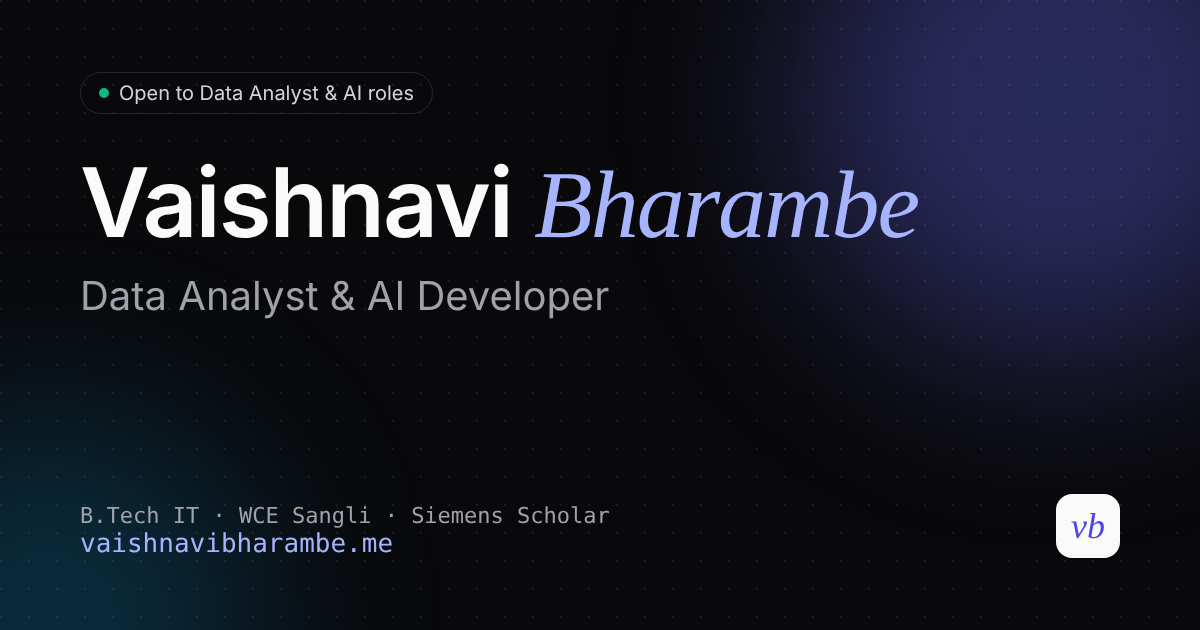
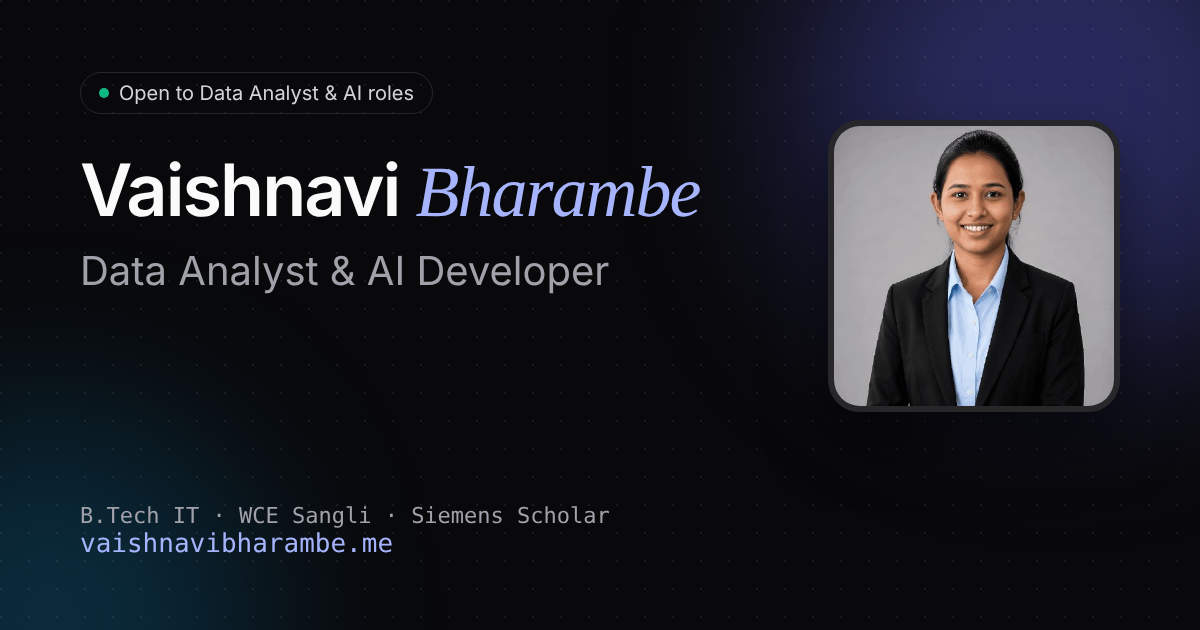
Fix mobile overflow, add photo, update Siemens internship, new chat launcher
- Contact grid no longer stretches the page on phones; global overflow guard
- Profile photo in hero badge, About portrait, chatbot and share image
- Siemens internship: governance & risk, Zero Trust & vulnerability management, dashboards
- Chat launcher shows photo with sparkle badge and 'Ask about me' label

Claude-Session: https://claude.ai/code/session_01Vvamk7oeP9AgVw4tv4RP3Y

Changed region(s): [[0.0617, 0.181, 0.9558, 0.6635], [0.8633, 0.7841, 0.9558, 0.9048]]

diff --git a/src/components/ChatBot.jsx b/src/components/ChatBot.jsx
@@ -1,6 +1,6 @@
 import { useEffect, useRef, useState } from 'react'
 import { AnimatePresence, motion } from 'framer-motion'
-import { LuMessageCircle, LuX, LuSend, LuArrowUpRight, LuCopy, LuSparkles } from 'react-icons/lu'
+import { LuX, LuSend, LuArrowUpRight, LuCopy, LuSparkles } from 'react-icons/lu'
 import { getReply, starterChips } from '../data/chatbot'
 import { useToast } from './Toast'
 import { profile } from '../data/portfolio'
@@ -61,35 +61,37 @@ export default function ChatBot() {
     <>
       {/* launcher */}
       <div className="fixed bottom-6 right-6 z-[65] flex items-end gap-3">
-        <AnimatePresence>
-          {nudge && !open && (
-            <motion.button
-              onClick={() => setOpen(true)}
-              initial={{ opacity: 0, x: 12, scale: 0.9 }}
-              animate={{ opacity: 1, x: 0, scale: 1 }}
-              exit={{ opacity: 0, x: 12, scale: 0.9 }}
-              className="mb-2 hidden rounded-2xl rounded-br-md border border-zinc-200 bg-white px-4 py-2.5 text-sm font-medium shadow-xl sm:block dark:border-zinc-800 dark:bg-zinc-900"
-            >
-              Have a question about me? Ask here 👋
-            </motion.button>
-          )}
-        </AnimatePresence>
         <motion.button
           onClick={() => setOpen((o) => !o)}
-          aria-label={open ? 'Close chat' : 'Open chat assistant'}
+          aria-label={open ? 'Close chat' : 'Ask about Vaishnavi'}
           aria-expanded={open}
-          whileHover={{ scale: 1.06 }}
-          whileTap={{ scale: 0.92 }}
-          initial={{ scale: 0 }}
-          animate={{ scale: 1 }}
+          whileHover={{ scale: 1.04, y: -2 }}
+          whileTap={{ scale: 0.94 }}
+          initial={{ scale: 0, opacity: 0 }}
+          animate={{ scale: 1, opacity: 1 }}
           transition={{ delay: 2, type: 'spring', stiffness: 260, damping: 18 }}
-          className="relative grid h-14 w-14 place-items-center rounded-full bg-zinc-900 text-white shadow-2xl shadow-indigo-900/30 dark:bg-white dark:text-zinc-900"
+          className={`relative flex items-center gap-2.5 rounded-full bg-zinc-900 text-white shadow-2xl shadow-indigo-900/30 ring-4 ring-accent/20 dark:bg-white dark:text-zinc-900 ${open ? 'h-14 w-14 justify-center' : 'h-14 py-1.5 pl-1.5 pr-1.5 sm:pr-5'}`}
         >
-          {!open && <span className="absolute inset-0 animate-ping rounded-full bg-accent opacity-20" />}
           <AnimatePresence mode="wait" initial={false}>
-            <motion.span key={open ? 'x' : 'chat'} initial={{ rotate: -90, scale: 0 }} animate={{ rotate: 0, scale: 1 }} exit={{ rotate: 90, scale: 0 }} transition={{ duration: 0.2 }} className="text-2xl">
-              {open ? <LuX /> : <LuMessageCircle />}
-            </motion.span>
+            {open ? (
+              <motion.span key="x" initial={{ rotate: -90, scale: 0 }} animate={{ rotate: 0, scale: 1 }} exit={{ rotate: 90, scale: 0 }} transition={{ duration: 0.2 }} className="text-2xl">
+                <LuX />
+              </motion.span>
+            ) : (
+              <motion.span key="ask" initial={{ opacity: 0, scale: 0.8 }} animate={{ opacity: 1, scale: 1 }} exit={{ opacity: 0, scale: 0.8 }} transition={{ duration: 0.2 }} className="flex items-center gap-2.5">
+                <span className="relative">
+                  <img src={`${import.meta.env.BASE_URL}${profile.photoSmall}`} alt="" className="h-11 w-11 rounded-full object-cover ring-2 ring-white/20 dark:ring-zinc-900/10" />
+                  <motion.span
+                    animate={{ rotate: [0, 15, -10, 0], scale: [1, 1.15, 1] }}
+                    transition={{ duration: 2.4, repeat: Infinity, repeatDelay: 1.5 }}
+                    className="absolute -bottom-0.5 -right-0.5 grid h-5 w-5 place-items-center rounded-full bg-accent text-[11px] text-white ring-2 ring-zinc-900 dark:text-zinc-900 dark:ring-white"
+                  >
+                    <LuSparkles />
+                  </motion.span>
+                </span>
+                <span className="hidden text-sm font-medium sm:block">Ask about me</span>
+              </motion.span>
+            )}
           </AnimatePresence>
         </motion.button>
       </div>
@@ -110,9 +112,7 @@ export default function ChatBot() {
             {/* header */}
             <div className="flex items-center gap-3 border-b border-zinc-100 bg-gradient-to-br from-indigo-500/10 to-sky-500/5 px-5 py-4 dark:border-zinc-800">
               <div className="relative">
-                <span className="grid h-10 w-10 place-items-center rounded-full bg-zinc-900 font-serif text-lg italic text-indigo-200 dark:bg-white dark:text-indigo-600">
-                  {profile.initials.toLowerCase()}
-                </span>
+                <img src={`${import.meta.env.BASE_URL}${profile.photoSmall}`} alt="Vaishnavi Bharambe" className="h-10 w-10 rounded-full object-cover" />
                 <span className="absolute bottom-0 right-0 h-3 w-3 rounded-full border-2 border-white bg-emerald-500 dark:border-zinc-950" />
               </div>
               <div className="min-w-0 flex-1">

diff --git a/src/data/portfolio.js b/src/data/portfolio.js
@@ -15,13 +15,15 @@ export const profile = {
   email: 'vaishnavibharambe99@gmail.com',
   github: 'https://github.com/Bharambevaish',
   linkedin: 'https://www.linkedin.com/in/vaishnavi-bharambe-646783293/',
+  photo: 'vaishnavi-bharambe.jpg', // in public/
+  photoSmall: 'vaishnavi-bharambe-sm.jpg',
   resume: '', // TODO: paste a public link to your resume PDF to show a "Resume" button
 }
 
 export const about = {
   paragraphs: [
     "I'm a B.Tech Information Technology student at Walchand College of Engineering, Sangli, and a Siemens Scholar (Batch 11). I like questions that a dataset can answer: who your most valuable customers are, which ones are about to become valuable, and what to do about each group.",
-    'This summer I interned with the cybersecurity team at Siemens, where I built reports and automated workflows with Excel, Power BI, SharePoint and Power Automate. Outside class I build end-to-end projects in Python, and I am now moving into AI with retrieval-augmented generation (RAG) and transformer models.',
+    'This summer I interned with the cybersecurity team at Siemens, working across governance and risk, Zero Trust and vulnerability management, and building compliance dashboards and automated workflows with Power BI, Excel, Power Automate and SharePoint. Outside class I build end-to-end projects in Python, and I am now moving into AI with retrieval-augmented generation (RAG) and transformer models.',
   ],
   highlights: [
     { value: 8.5, decimals: 1, suffix: '', label: 'CGPA at WCE Sangli' },
@@ -187,13 +189,13 @@ export const experience = [
     org: 'Siemens',
     period: 'Jun 2026 – Jul 2026',
     type: 'Internship',
-    icon: 'siemens',
+    icon: 'briefcase',
     points: [
-      'Built data analysis and reports for the team with Excel pivot tables and Power BI dashboards.',
-      'Automated routine workflows with Power Automate and organised team content in SharePoint.',
-      'Learned the foundations of security practice, including Zero Trust and CVSS-based vulnerability management.',
+      'Governance & risk: worked on the Asset Classification and Protection (ACP) process and evaluated vendor risk using C-SCRM (cyber supply chain risk management) guidelines.',
+      'Architecture & vulnerability management: analysed Zero Trust Architecture (identity, micro-segmentation, device trust) and the vulnerability management lifecycle, aligned with ISO 27001 and IEC 62443 standards.',
+      'Automation & dashboarding: built compliance-tracking dashboards and automated workflows with Microsoft Excel, Power BI, Power Automate and SharePoint.',
     ],
-    tools: ['Power BI', 'Excel', 'Power Automate', 'SharePoint'],
+    tools: ['Zero Trust', 'ISO 27001', 'IEC 62443', 'C-SCRM', 'Power BI', 'Excel', 'Power Automate', 'SharePoint'],
   },
   {
     role: 'Siemens Scholar, Batch 11',

diff --git a/src/components/About.jsx b/src/components/About.jsx
@@ -2,7 +2,8 @@ import SectionHeading from './SectionHeading'
 import Reveal from './Reveal'
 import Counter from './Counter'
 import TiltCard from './TiltCard'
-import { about } from '../data/portfolio'
+import { motion } from 'framer-motion'
+import { about, profile } from '../data/portfolio'
 
 export default function About() {
   return (
@@ -10,7 +11,24 @@ export default function About() {
       <div className="mx-auto max-w-6xl">
         <SectionHeading icon="about" eyebrow="About" title="A little about me" />
         <div className="grid gap-12 md:grid-cols-[180px_1fr] md:gap-10">
-          <div />
+          <Reveal className="self-start md:sticky md:top-28">
+            <TiltCard intensity={10} className="group mx-auto w-48 md:mx-0 md:w-full">
+              <div className="absolute -inset-1.5 rounded-[1.75rem] bg-gradient-to-br from-indigo-400 via-sky-300 to-violet-400 opacity-60 blur-md transition-opacity duration-500 group-hover:opacity-90" />
+              <motion.img
+                src={`${import.meta.env.BASE_URL}${profile.photo}`}
+                alt="Vaishnavi Bharambe, Data Analyst and AI developer"
+                width="460"
+                height="460"
+                loading="lazy"
+                whileHover={{ scale: 1.02 }}
+                className="relative aspect-square w-full rounded-3xl border-4 border-white object-cover shadow-xl dark:border-zinc-900"
+              />
+              <div className="relative mt-4 text-center md:text-left">
+                <div className="font-semibold">{profile.name}</div>
+                <div className="text-sm text-zinc-500">Data &amp; AI · Siemens Scholar</div>
+              </div>
+            </TiltCard>
+          </Reveal>
           <div className="grid gap-12 lg:grid-cols-[1.2fr_1fr]">
             <div className="space-y-5 text-lg leading-relaxed text-zinc-600 dark:text-zinc-400">
               {about.paragraphs.map((p, i) => (

diff --git a/src/data/chatbot.js b/src/data/chatbot.js
@@ -94,9 +94,9 @@ const intents = [
   },
   {
     id: 'experience',
-    keywords: ['experience', 'intern', 'internship', 'siemens', 'worked', 'company', 'work experience', 'job experience', 'power bi'],
+    keywords: ['experience', 'intern', 'internship', 'siemens', 'zero trust', 'iso 27001', 'governance', 'compliance', 'vulnerability', 'worked', 'company', 'work experience', 'job experience', 'power bi'],
     reply: () => ({
-      text: `She was a Cybersecurity Summer Intern at Siemens (June–July 2026). Her work there was mostly data and automation: Excel pivot tables and Power BI dashboards for reporting, Power Automate workflows, and organising team content in SharePoint. She also learned security fundamentals such as Zero Trust and CVSS-based vulnerability management.\n\nShe's also a Siemens Scholar (Batch 11).`,
+      text: `She was a Cybersecurity Summer Intern at Siemens (June–July 2026), working in three areas:\n\n• Governance & risk: the Asset Classification and Protection (ACP) process, and vendor risk evaluation using C-SCRM guidelines\n• Architecture & vulnerability management: Zero Trust Architecture (identity, micro-segmentation, device trust) and the vulnerability lifecycle, aligned with ISO 27001 and IEC 62443\n• Automation & dashboards: compliance-tracking dashboards and automated workflows with Excel, Power BI, Power Automate and SharePoint\n\nShe's also a Siemens Scholar (Batch 11).`,
       links: [{ label: 'See Experience', href: '#experience' }],
       chips: ['Education', 'What are her skills?'],
     }),

diff --git a/src/components/Contact.jsx b/src/components/Contact.jsx
@@ -38,7 +38,7 @@ export default function Contact() {
           I'm looking for data analyst and AI roles. If you have an opportunity or just want to talk data, my inbox is open.
         </SectionHeading>
 
-        <div className="grid gap-10 md:ml-[220px] lg:grid-cols-[1fr_1.1fr]">
+        <div className="grid grid-cols-1 gap-10 md:ml-[220px] lg:grid-cols-[minmax(0,1fr)_minmax(0,1.1fr)] [&>*]:min-w-0">
           <div className="space-y-4">
             <Reveal>
               <div className="group flex items-center justify-between gap-4 rounded-2xl border border-zinc-200 bg-white p-5 dark:border-zinc-800 dark:bg-zinc-900/60">
@@ -46,7 +46,7 @@ export default function Contact() {
                   <span className="grid h-12 w-12 shrink-0 place-items-center rounded-xl bg-accent-soft text-xl text-accent"><LuMail /></span>
                   <div className="min-w-0">
                     <div className="text-xs text-zinc-500">Email</div>
-                    <a href={`mailto:${profile.email}`} className="block truncate font-medium hover:text-accent">{profile.email}</a>
+                    <a href={`mailto:${profile.email}`} className="block truncate text-sm font-medium hover:text-accent sm:text-base">{profile.email}</a>
                   </div>
                 </div>
                 <motion.button whileTap={{ scale: 0.85 }} onClick={copyEmail} aria-label="Copy email address"

diff --git a/src/components/Hero.jsx b/src/components/Hero.jsx
@@ -33,7 +33,14 @@ export default function Hero({ ready }) {
 
       <div className="mx-auto grid max-w-6xl items-center gap-16 lg:grid-cols-[1.3fr_1fr]">
         <motion.div variants={container} initial="hidden" animate={state}>
-          <motion.div variants={fade} className="mb-8 inline-flex items-center gap-2.5 rounded-full border border-zinc-200 bg-white/70 px-4 py-1.5 text-xs font-medium text-zinc-600 backdrop-blur dark:border-zinc-800 dark:bg-zinc-900/70 dark:text-zinc-300">
+          <motion.div variants={fade} className="mb-8 inline-flex items-center gap-2.5 rounded-full border border-zinc-200 bg-white/70 py-1 pl-1 pr-4 text-xs font-medium text-zinc-600 backdrop-blur dark:border-zinc-800 dark:bg-zinc-900/70 dark:text-zinc-300">
+            <img
+              src={`${import.meta.env.BASE_URL}${profile.photoSmall}`}
+              alt="Vaishnavi Bharambe"
+              width="32"
+              height="32"
+              className="h-8 w-8 rounded-full object-cover ring-2 ring-white dark:ring-zinc-900"
+            />
             <span className="relative flex h-2 w-2">
               <span className="absolute inline-flex h-full w-full animate-ping rounded-full bg-emerald-400 opacity-75" />
               <span className="relative inline-flex h-2 w-2 rounded-full bg-emerald-500" />

diff --git a/src/components/BackToTop.jsx b/src/components/BackToTop.jsx
@@ -21,7 +21,7 @@ export default function BackToTop() {
           exit={{ opacity: 0, scale: 0.6, y: 20 }}
           whileHover={{ y: -4 }}
           whileTap={{ scale: 0.9 }}
-          className="fixed bottom-24 right-6 z-40 grid h-11 w-11 place-items-center rounded-full bg-zinc-900 text-white shadow-xl dark:bg-white dark:text-zinc-900"
+          className="fixed bottom-24 right-7 z-40 grid h-11 w-11 place-items-center rounded-full bg-zinc-900 text-white shadow-xl dark:bg-white dark:text-zinc-900"
         >
           <LuArrowUp />
         </motion.a>

diff --git a/seo.config.js b/seo.config.js
@@ -22,7 +22,7 @@ function jsonLd() {
     name: profile.name,
     alternateName: ['Vaishnavi Kailas Bharambe', 'Bharambevaish'],
     url: SITE_URL,
-    image: `${SITE_URL}og-image.png`,
+    image: `${SITE_URL}vaishnavi-bharambe.jpg`,
     email: `mailto:${profile.email}`,
     jobTitle: 'Data Analyst & AI Developer',
     description,

diff --git a/src/index.css b/src/index.css
@@ -23,6 +23,8 @@
 }
 
 html { scroll-behavior: smooth; }
+/* never let anything push the page wider than the screen */
+html, body { overflow-x: clip; max-width: 100%; }
 body {
   @apply bg-white text-zinc-900 antialiased dark:bg-zinc-950 dark:text-zinc-100;
   font-family: var(--font-sans);
